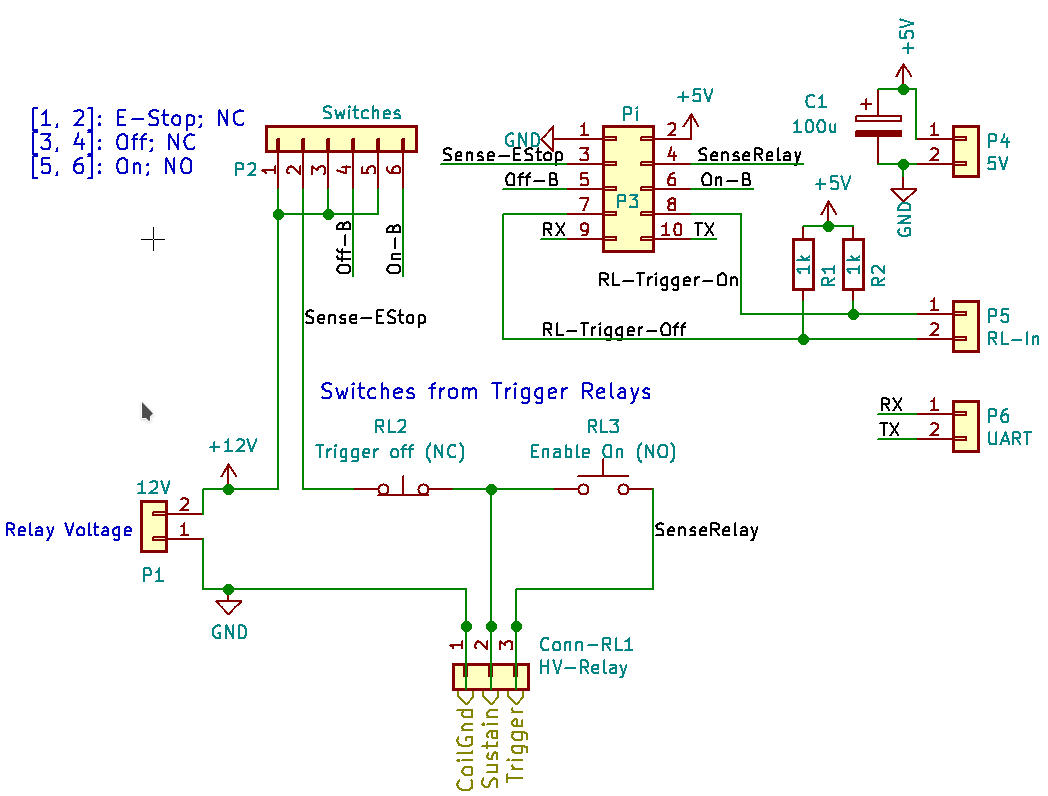
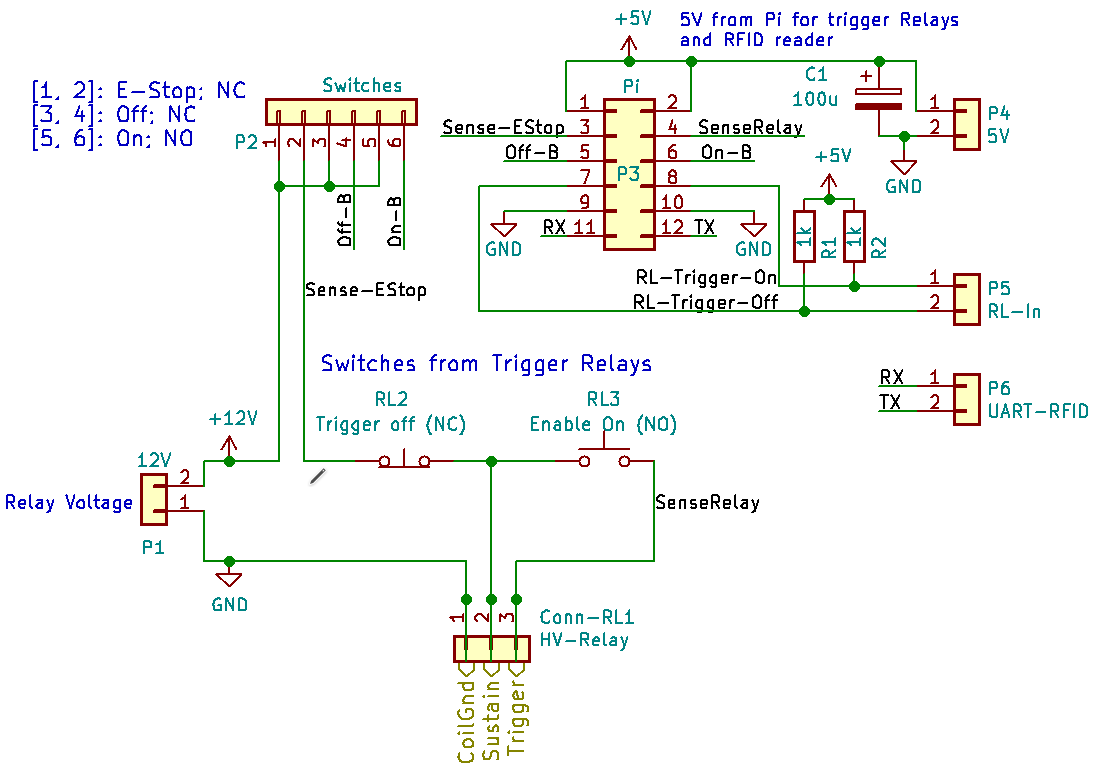
Use IDC-12 for lower impedance 5V/GND connection.
The flat cable might be a meter or so long, the 5V relays might need
some current and the strands are flimsy.

Also, better separation of the 12V-ish logic and the RX/TX wiring.

diff --git a/README.md b/README.md
@@ -80,25 +80,30 @@ are represented as hexagons.
 
 ## Connection
 
-The connection between the switch-box and the Pi is a simple 10 pos flat cable
-with and IDC connector on both ends. Opto-couplers on the Raspberry Pi-end are
-used to make the inputs of the Pi 12V tolerant as all inputs are 12V levels.
+The connection between the switch-box and the Pi (which is mounted behind the
+LED display) is a simple flat cable with and IDC connector on both ends.
+Opto-couplers on the Raspberry Pi-end are used to make the inputs of
+the Pi 12V tolerant (as all inputs are 12V levels).
 
 The outputs are OpenCollector outputs from the Pi (again, done with
 Opto-couplers), which allow to use the triggers to operate 5V or 12V logic
 if needed (up to 5mA).
 
+A TTL serial connection is provided for the RFID reader also residing in/near
+the switch box (undecided yet if these should also be opto-decoupled).
+
 The switch box needs to get a separate 12V supply to power the relays (and via
 a DC/DC converter, the RFID reader?)
 
+The wiring between the IDC connector and switches/relays/RFID reader are
+done with a little PCB residing in the switch box.
 
-| Desc               | Pin | Pin | Desc
-|-------------------:|:---:|:---:|:-----------------------------
-|               GND  |   1 |   2 | +5V (low current)
-|   Sense EStop `in` |   3 |   4 | `in` sense relay voltage (e.g. for failure detection)
-|    Off-Button `in` |   5 |   6 | `in` On-Button
-| Trigger Off `~out` |   7 |   8 | `~out` Trigger On (Open collector, 5mA)
-|     UART RX on Pi  |   9 |  10 | UART TX on Pi
+<a href="./hardware/switch-connector"><img src="img/switch-connector-schem.png"/></a>
+
+## Pi HAT
+
+(TBD) - a combination of a simple rpi-rgb-led-matrix wiring + opto-decoupled
+outputs.
 
 [switch-box]: https://www.amazon.com/gp/product/B0097B4YK0
 [rpi-rgb-matrix]: https://github.com/hzeller/rpi-rgb-led-matrix

diff --git a/hardware/switch-connector/README.md b/hardware/switch-connector/README.md
@@ -2,10 +2,23 @@ Switch Connector
 ================
 
 Inside the switch box, there needs to be some simple wiring that connects
-the switches to the IDC-10 connector towards the Pi, provides a screw-terminal
+the switches to the IDC-12 connector towards the Pi, provides a screw-terminal
 for the large mains-relay and internal connections to wire up a standard
 low-voltage relay. To simplify that and improve maintainability, this is a
 small PCB inside the switch box.
+
+The connector to the switches is an JST-XH connector, which can be cheaply
+acquired pre-crimped, as they are also used as battery charge balance
+connectors.
+
+| Desc               | Pin | Pin | Desc
+|-------------------:|:---:|:---:|:-----------------------------
+|               +5V  |   1 |   2 | +5V (low current; for trigger relays and RFID)
+|   Sense EStop `in` |   3 |   4 | `in` sense relay voltage (e.g. for failure detection)
+|    Off-Button `in` |   5 |   6 | `in` On-Button
+| Trigger Off `~out` |   7 |   8 | `~out` Trigger On (Open collector, 5mA)
+|               GND  |   9 |  10 | GND
+|     UART RX on Pi  |  11 |  12 | UART TX on Pi (3.3V TTL)
 
 ![](../../img/switch-connector-schem.png)
 
